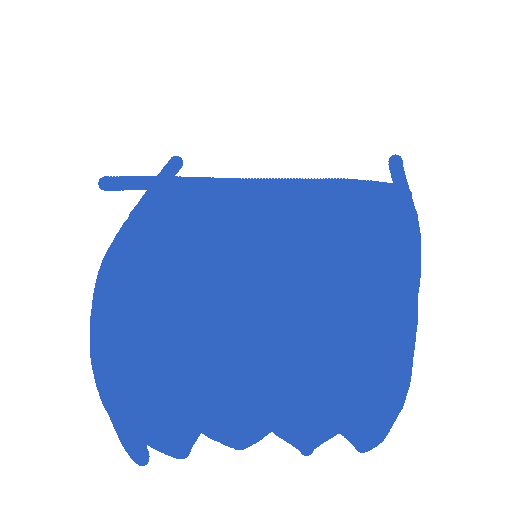
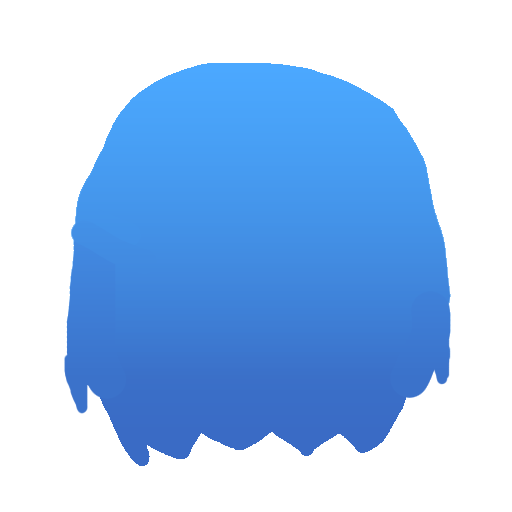
Update face test

diff --git a/layer.c b/layer.c
@@ -1,7 +1,3 @@
-// should probably allow for layer translation (for lips, eyelids, etc moving up/down) and scaling (same stuff ig)
-// also layers should be able to inherit the transformations of a parent layer, e.g. for twintails that swing alongside moving with the head
-// or idk
-
 static char *vertex =
 "#version 150 core\n"
 "uniform float aspect_ratio;\n"
@@ -47,7 +43,14 @@ typedef struct {
 	GLuint texture;
 	float depth;
 
-} Layer; // a layer is a mesh + a texture + a layer depth (used for rotation; every vertex on the same layer has the same depth, no depth testing needed, just draw painterly)
+	float layer_x, layer_y;
+	float pivot_x, pivot_y;
+	float roll, yaw, pitch;
+
+} Layer; // a layer is a mesh + a texture + a layer depth + some translation/rotation information (used for rotation; every vertex on the same layer has the same depth, no depth testing needed, just draw painterly)
+
+// TODO allow for layer translation (for lips, eyelids, etc moving up/down) and scaling (same stuff ig)
+// translation is applied before rotation (since rotation is around a pivot instead of your origin), unlike other systems
 
 // returns NULL on error
 Layer *create_layer(const float depth, const char *tex_path) {
@@ -61,8 +64,8 @@ Layer *create_layer(const float depth, const char *tex_path) {
 	}
 
 	// create a mesh that fits the size of the image
-	float mesh_w = surface->w / (float) 1600;
-	float mesh_h = surface->h / (float) 1600;
+	float mesh_w = surface->w / (float) 1000;
+	float mesh_h = surface->h / (float) 1000;
 
 	float mesh_data[] = {
 		-mesh_w, -mesh_h, 0.0, 1.0,
@@ -119,14 +122,19 @@ Layer *create_layer(const float depth, const char *tex_path) {
 	layer->vertex_array = vertex_array;
 	layer->texture = texture;
 	layer->depth = depth;
+	layer->layer_x = 0.0;
+	layer->layer_y = 0.0;
+	layer->pivot_x = 0.0;
+	layer->pivot_y = 0.0;
+	layer->roll = 0.0;
+	layer->yaw = 0.0;
+	layer->pitch = 0.0;
 
 	// free the SDL surface
 	SDL_FreeSurface(surface);
 
 	return layer;
 }
-
-float t = 0.0;
 
 void draw_layer(const Layer *layer) {
 
@@ -136,11 +144,9 @@ void draw_layer(const Layer *layer) {
 
 	// load shader uniforms
 	glUniform1f(glGetUniformLocation(shader_program, "aspect_ratio"), aspect_ratio);
-	glUniform3f(glGetUniformLocation(shader_program, "rotation"), sin(t * 1.2563) * 0.1, sin(t), 0.0);
-	glUniform2f(glGetUniformLocation(shader_program, "pivot"), 0.0, -0.5);
+	glUniform3f(glGetUniformLocation(shader_program, "rotation"), layer->roll, layer->yaw, layer->pitch);
+	glUniform2f(glGetUniformLocation(shader_program, "pivot"), layer->pivot_x, layer->pivot_y);
 	glUniform1f(glGetUniformLocation(shader_program, "depth"), layer->depth);
-
-	t += 0.01;
 
 	// draw
 	glDrawArrays(GL_TRIANGLES, 0, 6);

diff --git a/main.c b/main.c
@@ -51,14 +51,18 @@ int main() {
 	
 	// let programmer initialize stuff
 	Layer *layers[] = {
-		create_layer(-0.05, "tex_backhair.png"),
-		create_layer(-0.02, "tex_ears.png"),
+		create_layer(-0.15, "tex_backhair.png"),
+		create_layer(-0.05, "tex_sidefrills.png"),
+		create_layer(-0.03, "tex_ears.png"),
 		create_layer(0.0, "tex_face.png"),
-		create_layer(0.02, "tex_eyes.png"),
-		create_layer(0.04, "tex_nose.png"),
-		create_layer(0.02, "tex_frills.png"),
-		create_layer(0.05, "tex_bangs.png"),
+		create_layer(0.07, "tex_eyeleft.png"),
+		create_layer(0.07, "tex_eyeright.png"),
+		create_layer(0.1, "tex_nose.png"),
+		create_layer(0.07, "tex_frills.png"),
+		create_layer(0.09, "tex_bangs.png"),
 	};
+
+	float t = 0.0;
 
 	// process events until window is closed
 	SDL_Event event;
@@ -78,8 +82,19 @@ int main() {
 
 		// draw layers
 		for (int i = 0; i < sizeof(layers) / sizeof(Layer *); i++) {
+			layers[i]->roll = sin(t * 1.2563) * 0.1;
+			layers[i]->yaw = sin(t) * 0.7;
+
+			if (i == 4) {
+				layers[i]->yaw -= 0.2;
+			}
+			if (i == 5) {
+				layers[i]->yaw += 0.2;
+			}
 			draw_layer(layers[i]);
 		}
+
+		t += 0.01;
 
 		// swap buffers
 		SDL_GL_SwapWindow(window);
